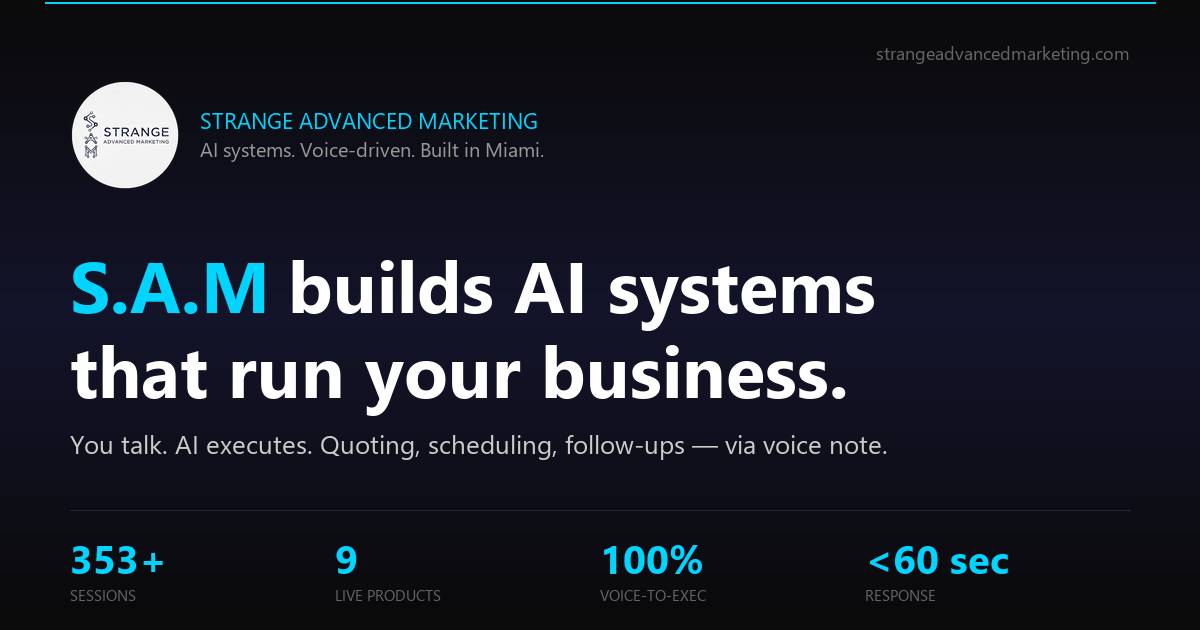
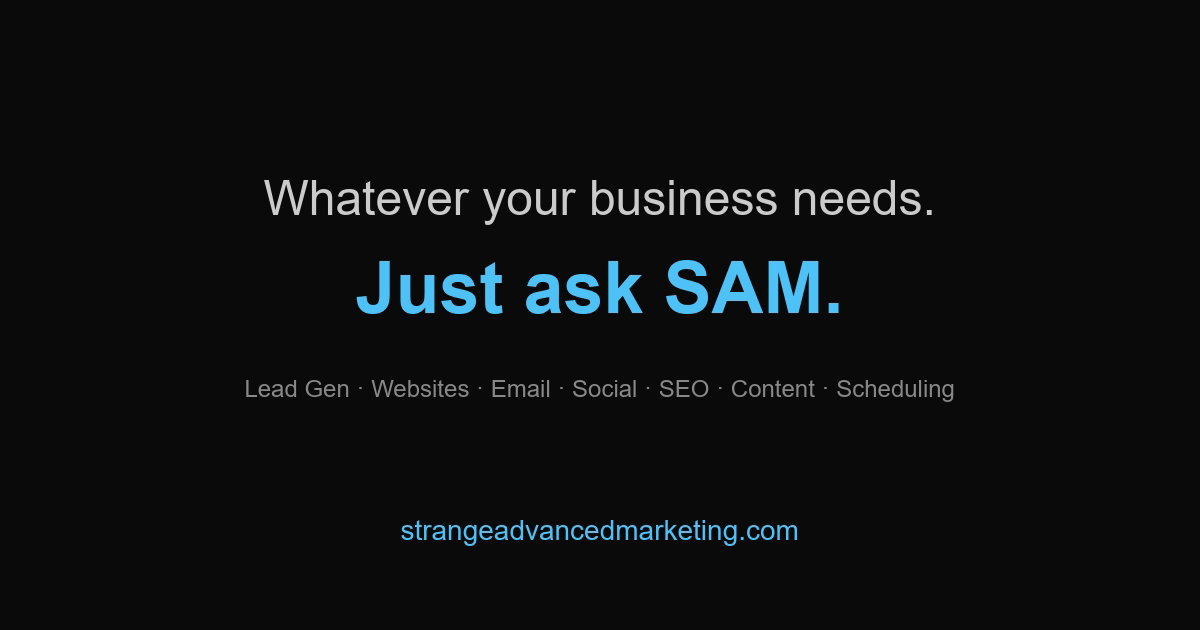
update og-image and meta for Just Ask SAM rebrand

diff --git a/index.html b/index.html
@@ -40,7 +40,7 @@
     <meta property="og:image" content="https://strangeadvancedmarketing.com/og-image.png">
     <meta property="og:image:width" content="1200">
     <meta property="og:image:height" content="630">
-    <meta property="og:image:alt" content="S.A.M builds AI systems that run your business. 353+ sessions, 9 live products, voice-to-execution.">
+    <meta property="og:image:alt" content="Whatever your business needs. Just ask SAM. Lead gen, websites, email, social, SEO, content, scheduling — all through voice notes.">
     <meta property="og:locale" content="en_US">
 
     <!-- Twitter / X -->